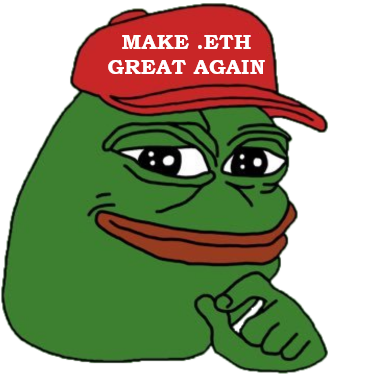
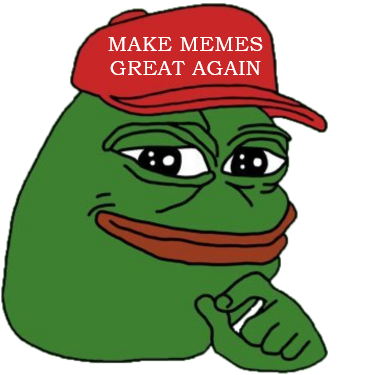
Add files via upload

Changed region(s): [[0.2933, 0.088, 0.704, 0.2053]]

diff --git a/index.html b/index.html
@@ -64,7 +64,7 @@ function myFunction() {
 </ur>
 
 <ul>
-<a href="https://twitter.com/lovespepe"><img src="pepetwitter.png" alt="Twitter" align="right" style="max-height: 45px; height: auto; width:auto;padding-right: 15%;"></a>
+<a href="https://twitter.com/lovespepe_eth"><img src="pepetwitter.png" alt="Twitter" align="right" style="max-height: 45px; height: auto; width:auto;padding-right: 15%;"></a>
 </ul>
 <ul>
 <a href="https://ens.vision/name/lovespepe"><img src="pepevision.png" alt="ENS Vision" align="right" style="max-height: 45px; height: auto; width:auto;padding-right: 15%;"></a>
@@ -77,7 +77,7 @@ function myFunction() {
 
 <table style="width: 100%; margin-left: auto; margin-right: auto;">
 <tr>
-<th><img src="pepe.png" alt="Make .eth Great Again" align="center" style="max-height: 200px; height: auto; width:auto;"></th>
+<th><img src="pepe.png" alt="Make Memes Great Again" align="center" style="max-height: 200px; height: auto; width:auto;"></th>
 </tr>
 </table>
 
@@ -86,13 +86,16 @@ function myFunction() {
 <th><img src="lovespepe.png" alt="logo" align="center" style="max-height: 50px; height: auto; width:auto;"></th>
 </tr>
 <tr>
-	<th><b>free ens subdomains for pepe army</br>dogs never had meme subdomains</b></th>
+	<th><b>ens subdomains for the pepe army.</br>dogs never had meme subdomains.</b></th>
 </tr>
 </table>
 
 
 <table style="max-width:400px; margin-left: auto; margin-right: auto; padding-top: 10px;margin-bottom: 10px;">
 <tbody>
+<tr>
+	<th><h2 style="display:block; text-align:justify;">✅ free</h2></th>
+</tr>
 <tr>
 	<th><h2 style="display:block; text-align:justify;">✅ wrapped</h2></th>
 </tr>
@@ -117,7 +120,7 @@ function myFunction() {
 
 <table style="width:100%; margin-left: auto; margin-right: auto; margin-bottom: 20px;">
 <tr>
-<th><a href="https://ens.vision/name/pepesubdomains"><img src="mintbutton.png" alt="mint button" align="center" style="max-height: 55px; height: auto; width:auto;"></th>
+<th><a href="https://ens.vision/name/lovespepe"><img src="mintbutton.png" alt="mint button" align="center" style="max-height: 55px; height: auto; width:auto;"></th>
 </tr>
 </table>
 </div>
@@ -164,31 +167,34 @@ where do lovespepe.eth subdomains work?
 <table style="max-width:400px; margin-left: auto; margin-right: auto; margin-bottom: 10px;">
 <tbody>
 <tr>
-	<th><h2 style="display:block; text-align:justify;">✅ etherscan</h2></th>
+	<th><h2 style="display:block; text-align:justify;">⛵ opensea</h4></th>
 </tr>
 <tr>
 	<th><h2 style="display:block; text-align:justify;">🦊 metamask</h2></th>
 </tr>
 <tr>
-	<th><h2 style="display:block; text-align:justify;">🌈 rainbow wallet</h2></th>
+	<th><h2 style="display:block; text-align:justify;">🛡 coinbase</h2></th>
+</tr>
+<tr>
+	<th><h2 style="display:block; text-align:justify;">👁 ens vision</h2></th>
+</tr>
+<tr>
+	<th><h2 style="display:block; text-align:justify;">✅ etherscan</h2></th>
+</tr>
+<tr>
+	<th><h2 style="display:block; text-align:justify;">🦄 uniswap</h2></th>
 </tr>
 <tr>
 	<th><h2 style="display:block; text-align:justify;">🦄 uniswap wallet</h2></th>
 </tr>
 <tr>
-	<th><h2 style="display:block; text-align:justify;">🦄 uniswap</h2></th>
+	<th><h2 style="display:block; text-align:justify;">🌈 rainbow wallet</h2></th>
 </tr>
 <tr>
 	<th><h2 style="display:block; text-align:justify;">🍣 sushiswap</h2></th>
 </tr>
 <tr>
 	<th><h2 style="display:block; text-align:justify;">🥞 pancakeswap</h2></th>
-</tr>
-<tr>
-	<th><h2 style="display:block; text-align:justify;">⛵ opensea</h4></th>
-</tr>
-<tr>
-	<th><h2 style="display:block; text-align:justify;">🛡 coinbase</h2></th>
 </tr>
 <tr>
 	<th><h2 style="display:block; text-align:justify;">💚 and more...</h2></th>
@@ -204,7 +210,7 @@ where do lovespepe.eth subdomains work?
 
 <table style="width: 100%; margin-left: auto; margin-right: auto;">
 <tr>
-<th><img src="howtobuy.png" alt="how to buy" align="center" style="max-height: 50px; height: auto; width:auto;margin-bottom: 20px;"></th>
+<th><img src="howtomint.png" alt="how to mint" align="center" style="max-height: 50px; height: auto; width:auto;margin-bottom: 20px;"></th>
 </tr>
 </table>
 
@@ -212,12 +218,12 @@ where do lovespepe.eth subdomains work?
 <tr>
 <th>
 <b>
-mint lovespepe.eth subdomains on ens vision. 
+mint free subdomain on ens vision. 
 </br>
 </br>
-after lovespepe.eth subdomains are minted
+after lovespepe.eth subdomain is minted
 </br>
-they can be traded on any nft marketplace.
+it can be traded on any nft marketplace.
 </br>
 </b>
 </th>
@@ -225,7 +231,7 @@ they can be traded on any nft marketplace.
 
 <table style="width:100%; margin-left: auto; margin-right: auto; margin-bottom: 20px;">
 <tr>
-<th><a href="https://ens.vision/name/pepesubdomains"><img src="mintbutton.png" alt="mint button" align="center" style="max-height: 55px; height: auto; width:auto;"></th>
+<th><a href="https://ens.vision/name/lovespepe"><img src="mintbutton.png" alt="mint button" align="center" style="max-height: 55px; height: auto; width:auto;"></th>
 </tr>
 </table>
 </div>
@@ -241,7 +247,7 @@ they can be traded on any nft marketplace.
 <table style="max-width:400px; margin-left: auto; margin-right: auto; margin-bottom: 10px;">
 <tbody>
 <tr>
-	<th><h2 style="display:block; text-align:justify;">✅ free (gas only)</h2></th>
+	<th><h2 style="display:block; text-align:justify;">✅ free mint (only gas)</h2></th>
 </tr>
 </table>
 </tbody></table>
@@ -278,7 +284,7 @@ they can be traded on any nft marketplace.
 
 <table style="width: 100%; margin-left: auto; margin-right: auto;margin-bottom: 10px;">
 <tr>
-<th><h5>lovespepe.eth has no asociation with Matt Furie</br>or his creation Pepe the Frog.</br></br></br>lovespepe.eth subdomains have no intrinsic value</br>or expectation of financial return.</br>subdomains are for entertainment purposes only.</h5></th>
+<th><h5>lovespepe.eth has no asociation with Matt Furie</br>or his creation Pepe the Frog.</h5></th>
 </tr>
 </table>
 
@@ -291,7 +297,7 @@ they can be traded on any nft marketplace.
 
 <div class="divider"></div>
 <div class="about">
-<a href="https://app.ens.domains/pepesubdomains.eth">
+<a href="https://app.ens.domains/lovespepe.eth">
 <img src="pepeens.png" alt="ens" align="center" style="max-height: 45px; height: auto; width:auto;">
 <h5>lovespepe.eth</h5>
 </a>
